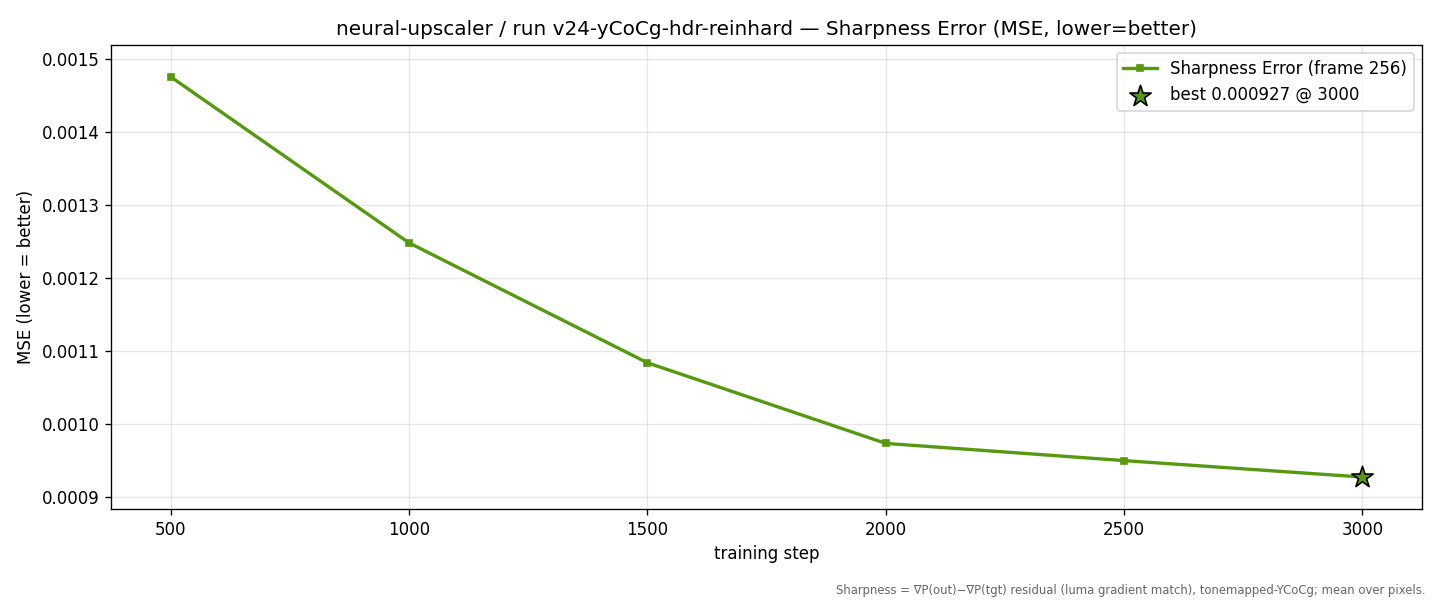
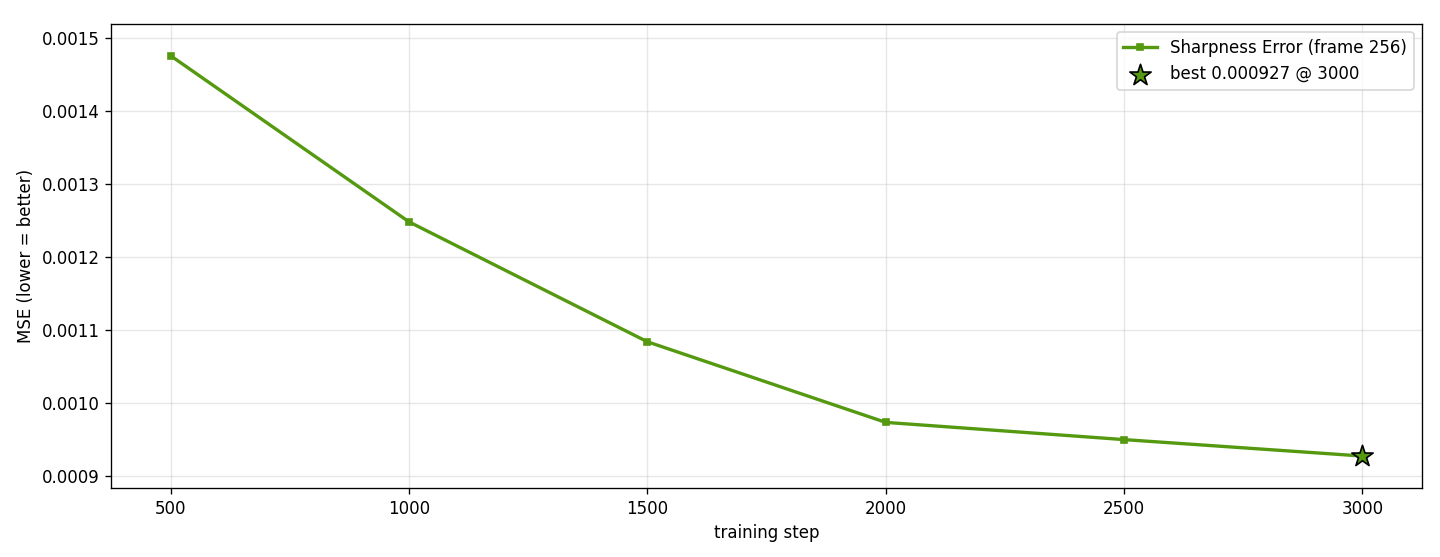
update

diff --git a/index.html b/index.html
@@ -62,16 +62,11 @@
 By training the model using gbuffer rendering data, we are able to reconstruct images with finer detail and generate a crisper image at higher resolution:
 
 <figure>
-  <img width="100%" src="images/sponza-lion.gif" alt="Sponza upscale">
-  <figcaption>Sponza: 960x540 rendering upsampled to 1920x1080 /w neural upscaling (x6 zoom)</figcaption>
+  <img width="100%" src="images/lumberyard-bistro-sign.png" alt="Bistro upscale">
+  <figcaption>Bistro: 960x540 rendering upsampled to 1920x1080 /w neural upscaling</figcaption>
 </figure>
 
 The model extracts latent features in low resolution, then performs a high-resolution reconstruction guided by a full-res G-buffer. Anchoring the network to high-res geometry and material data helps extract sharp details and ensure that textures and edges remain crisp and stable:
-
-<figure>
-  <img width="100%" src="images/sponza-poles.png" alt="Sponza poles">
-  <figcaption>Antialiasing comparison: bilinear (left) and neural upscaling (right)</figcaption>
-</figure>
 
 ## Low resolution feature extraction
 

diff --git a/articles/neural-temporal-upscaling.md b/articles/neural-temporal-upscaling.md
@@ -5,16 +5,11 @@
 By training the model using gbuffer rendering data, we are able to reconstruct images with finer detail and generate a crisper image at higher resolution:
 
 <figure>
-  <img width="100%" src="images/sponza-lion.gif" alt="Sponza upscale">
-  <figcaption>Sponza: 960x540 rendering upsampled to 1920x1080 /w neural upscaling (x6 zoom)</figcaption>
+  <img width="100%" src="images/lumberyard-bistro-sign.png" alt="Bistro upscale">
+  <figcaption>Bistro: 960x540 rendering upsampled to 1920x1080 /w neural upscaling</figcaption>
 </figure>
 
 The model extracts latent features in low resolution, then performs a high-resolution reconstruction guided by a full-res G-buffer. Anchoring the network to high-res geometry and material data helps extract sharp details and ensure that textures and edges remain crisp and stable:
-
-<figure>
-  <img width="100%" src="images/sponza-poles.png" alt="Sponza poles">
-  <figcaption>Antialiasing comparison: bilinear (left) and neural upscaling (right)</figcaption>
-</figure>
 
 ## Low resolution feature extraction
 